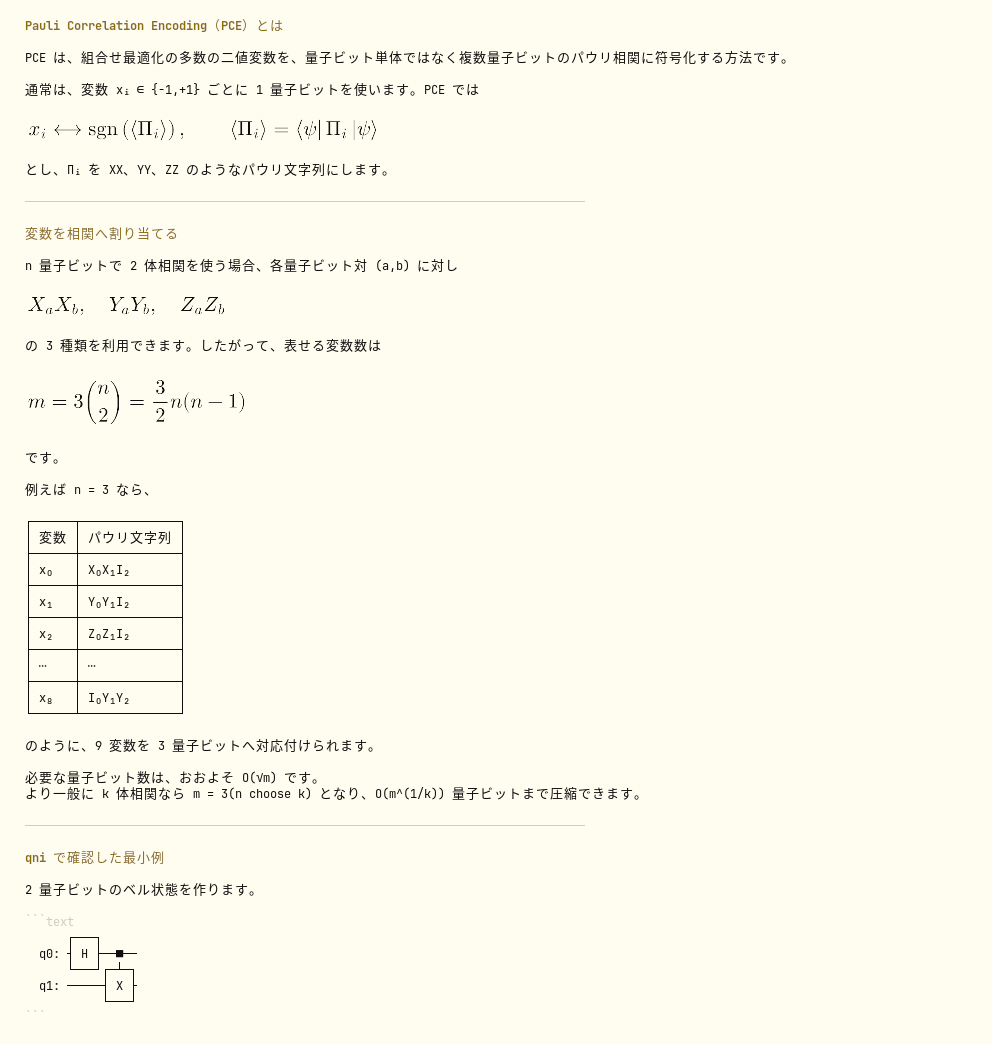
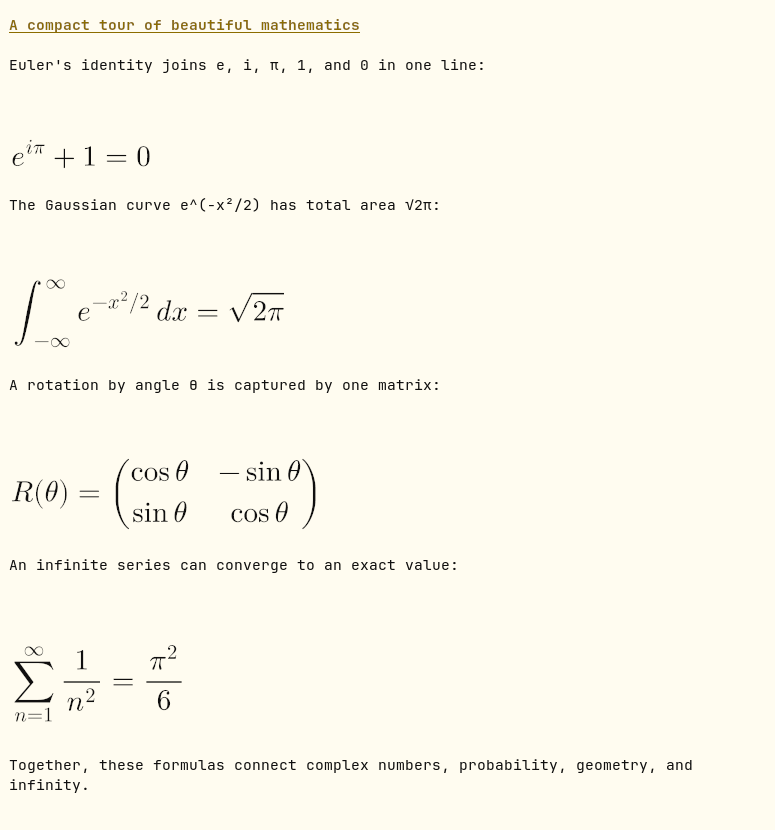
docs: replace README formula preview
Closes #32

diff --git a/features/step_definitions/distribution_steps.js b/features/step_definitions/distribution_steps.js
@@ -121,10 +121,10 @@ Then(
         galleryImage:
           "https://raw.githubusercontent.com/yasuhito/pi-formula/main/assets/ghostty-formulas.png",
         pngSignature: "PNG",
-        width: 992,
-        height: 1044,
+        width: 775,
+        height: 830,
         sha256:
[2 lines of base64/hex data omitted]
       },
     );
   },
